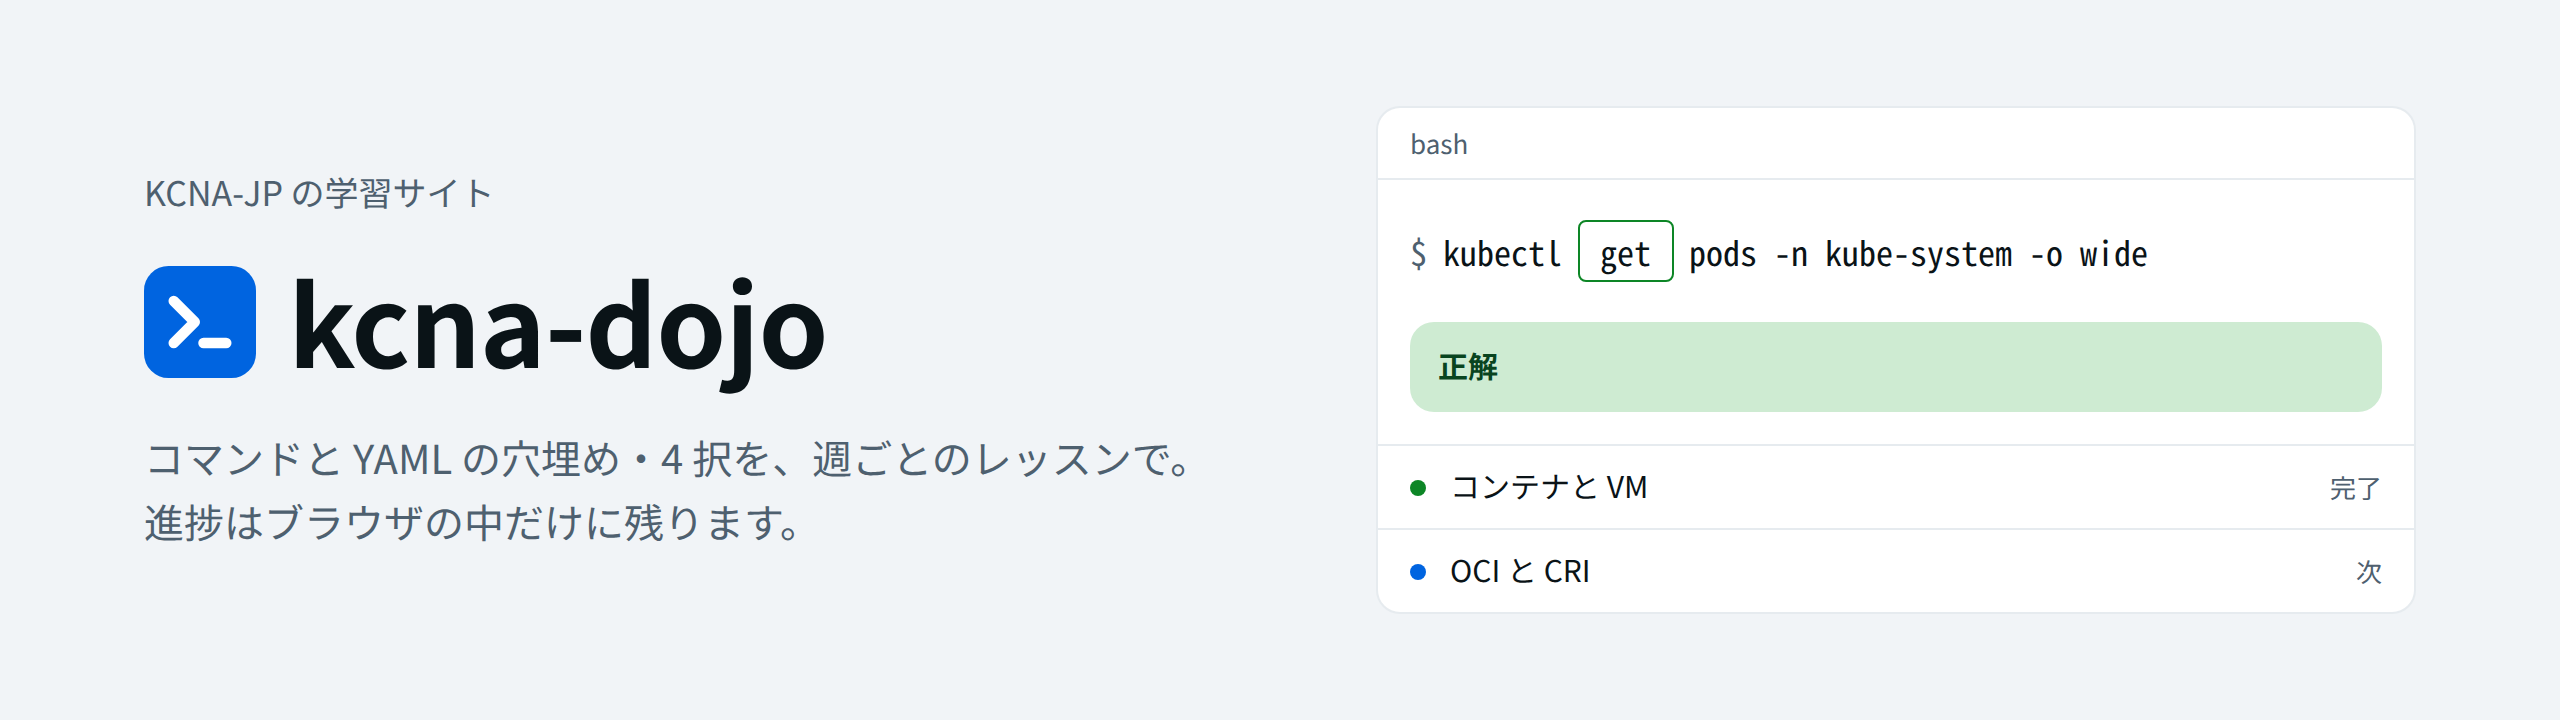
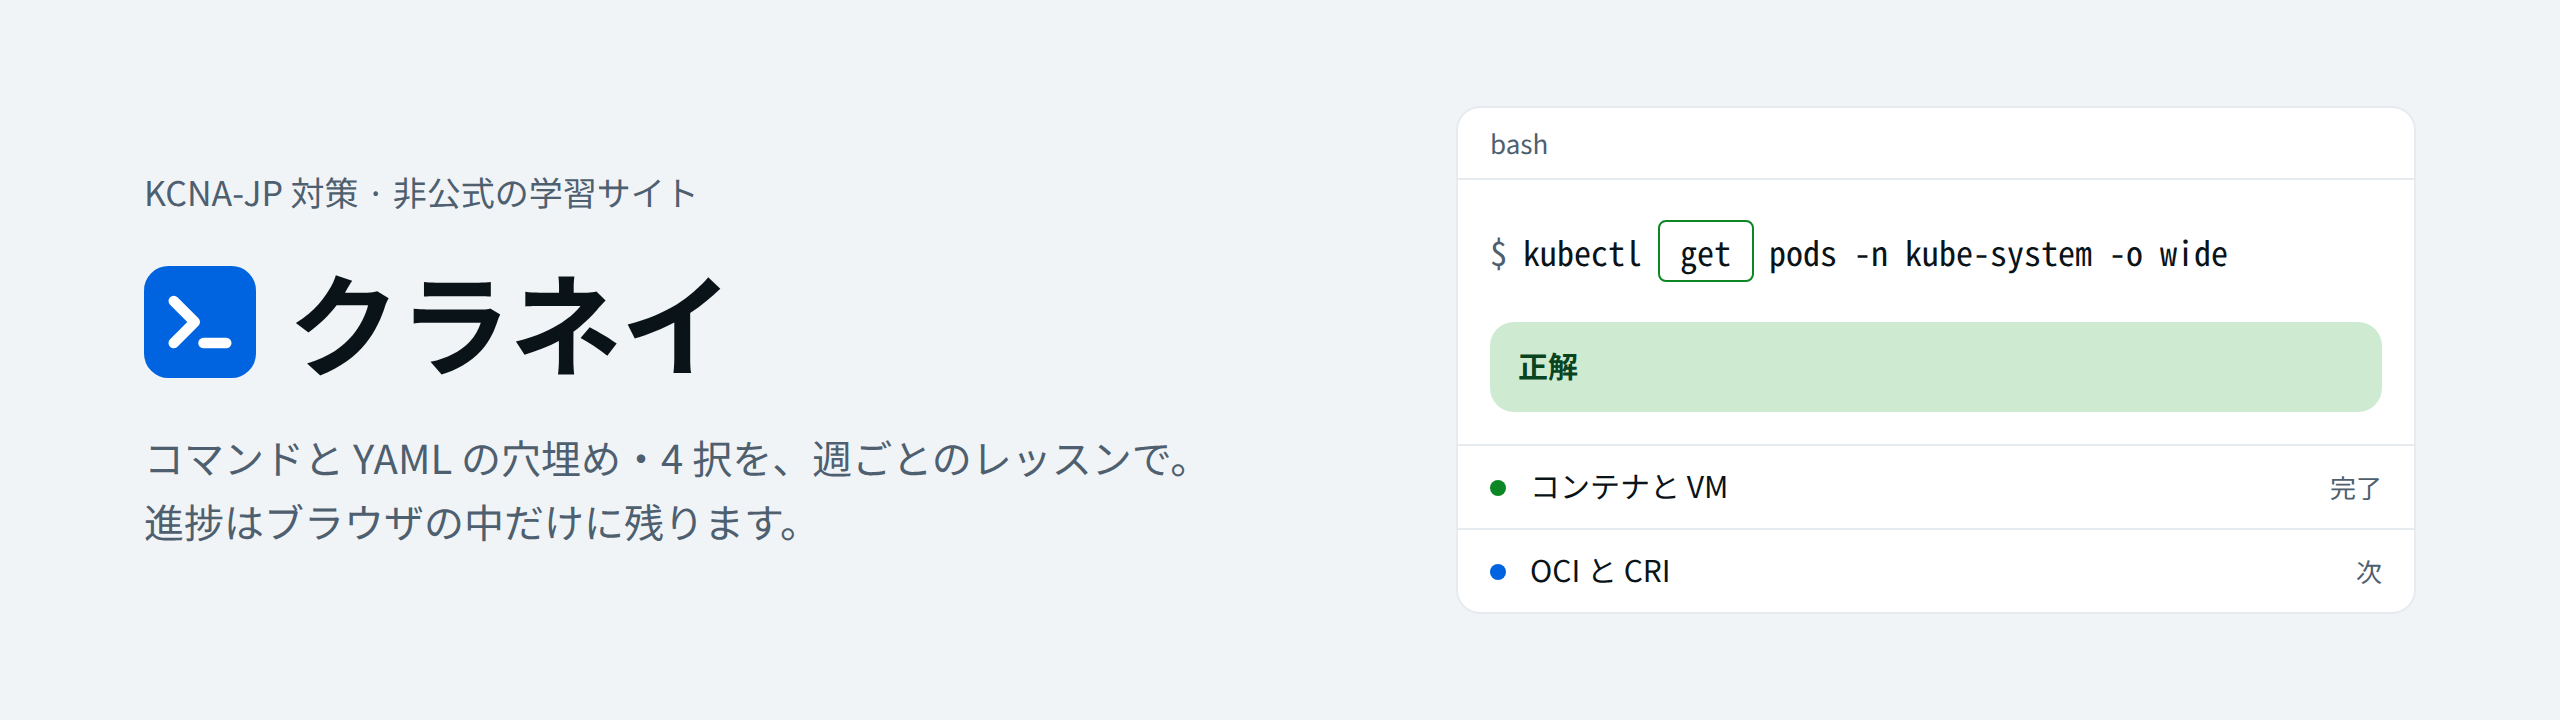
共有の画像を作る仕組みと head の検査を足し、README と画像をクラネイにする
npm run readme:images が public/og-image.png (1200×630) も作る。
tests/meta.test.ts で、題・説明・正規の URL・OGP・X のカード・画像の大きさ・JSON-LD・静的な見出しを確かめる。
X のカードの指定を消すとテストが落ちることを確認した。

Refs #9

diff --git a/tests/meta.test.ts b/tests/meta.test.ts
@@ -1,0 +1,45 @@
+import { readFileSync } from 'node:fs';
+import { join } from 'node:path';
+import { describe, expect, it } from 'vitest';
+import { SITE_NAME } from '../src/lib/site';
+
+// SNS の共有と検索のための index.html の head の中身。SNS の読み手は JavaScript を動かさないので、静的な HTML に要る
+const html = readFileSync(join(__dirname, '../index.html'), 'utf8');
+const doc = new DOMParser().parseFromString(html, 'text/html');
+const meta = (sel: string) => doc.querySelector(sel)?.getAttribute('content') ?? '';
+const SITE_URL = 'https://maco165.github.io/kcna-dojo/';
+
+describe('index.html の head', () => {
+  it('題・説明・正規の URL がある', () => {
+    expect(doc.title.startsWith(SITE_NAME)).toBe(true);
+    expect(meta('meta[name="description"]').length).toBeGreaterThan(50);
+    expect(doc.querySelector('link[rel="canonical"]')?.getAttribute('href')).toBe(SITE_URL);
+  });
+
+  it('OGP と X のカードがそろい、画像は絶対の URL', () => {
+    expect(meta('meta[property="og:title"]').startsWith(SITE_NAME)).toBe(true);
+    expect(meta('meta[property="og:site_name"]')).toBe(SITE_NAME);
+    expect(meta('meta[property="og:description"]')).toBe(meta('meta[name="description"]'));
+    expect(meta('meta[property="og:url"]')).toBe(SITE_URL);
+    expect(meta('meta[property="og:image"]')).toBe(`${SITE_URL}og-image.png`);
+    expect(meta('meta[name="twitter:card"]')).toBe('summary_large_image');
+    expect(meta('meta[name="twitter:image"]')).toBe(`${SITE_URL}og-image.png`);
+  });
+
+  it('共有の画像が 1200×630 の PNG で置いてある', () => {
+    const png = readFileSync(join(__dirname, '../public/og-image.png'));
+    expect(png.subarray(1, 4).toString()).toBe('PNG');
+    expect([png.readUInt32BE(16), png.readUInt32BE(20)]).toEqual([1200, 630]);
+  });
+
+  it('JSON-LD が読めて、サイト名と URL が合う', () => {
+    const ld = JSON.parse(doc.querySelector('script[type="application/ld+json"]')?.textContent ?? '{}');
+    expect(ld['@type']).toBe('WebSite');
+    expect(ld.name).toBe(SITE_NAME);
+    expect(ld.url).toBe(SITE_URL);
+  });
+
+  it('JavaScript を動かさない読み手にも見出しと説明がある', () => {
+    expect(doc.querySelector('#root h1')?.textContent).toContain(SITE_NAME);
+  });
+});

diff --git a/README.md b/README.md
@@ -1,13 +1,13 @@
 <picture>
   <source media="(prefers-color-scheme: dark)" srcset="docs/images/banner-dark.png">
-  <img alt="kcna-dojo: コマンドと YAML の穴埋め・4 択を、週ごとのレッスンで。進捗はブラウザの中だけに残ります" src="docs/images/banner-light.png">
+  <img alt="クラネイ: KCNA-JP 対策。コマンドと YAML の穴埋め・4 択を、週ごとのレッスンで。進捗はブラウザの中だけに残ります" src="docs/images/banner-light.png">
 </picture>
 
-KCNA-JP (Kubernetes and Cloud Native Associate 日本語版) の学習サイト。週ごとのレッスンで、コマンドの穴埋め・Dockerfile や YAML の穴埋め・4 択・家のクラスタでの実習を解く。進捗はブラウザの localStorage にだけ残し、サーバーは持たない。
+**クラネイ** (クラウドネイティブの略) は、KCNA-JP (Kubernetes and Cloud Native Associate 日本語版) 対策の非公式の学習サイト。リポジトリ名は kcna-dojo。週ごとのレッスンで、コマンドの穴埋め・Dockerfile や YAML の穴埋め・4 択・家のクラスタでの実習を解く。進捗はブラウザの localStorage にだけ残し、サーバーは持たない。
 
 | | |
 |---|---|
-| サイト | https://maco165.github.io/kcna-dojo/ |
+| サイト | https://maco165.github.io/kcna-dojo/ (サイト名と副題の正本は `src/lib/site.ts`) |
 | 見た目 | Meta の [Astryx](https://github.com/meta/astryx) (`@astryxdesign/core` の既定のトークンとシステムの字体)。デザイン案 https://claude.ai/artifact/TbAxSiWzdcuoxPPD155A6T に合わせる |
 | 管理 | [AI-Repository](https://github.com/maco165/AI-Repository) の PJ-028 (要件と backlog は `projects/PJ-028-kcna-dojo/design/`) |
 
@@ -141,3 +141,5 @@ npm run readme:images  # README の見出しと画面の画像を作り直す
 ## ライセンス
 
 MIT
+
+Kubernetes と KCNA は The Linux Foundation の商標です。このサイトは The Linux Foundation・CNCF とは関係ありません。
